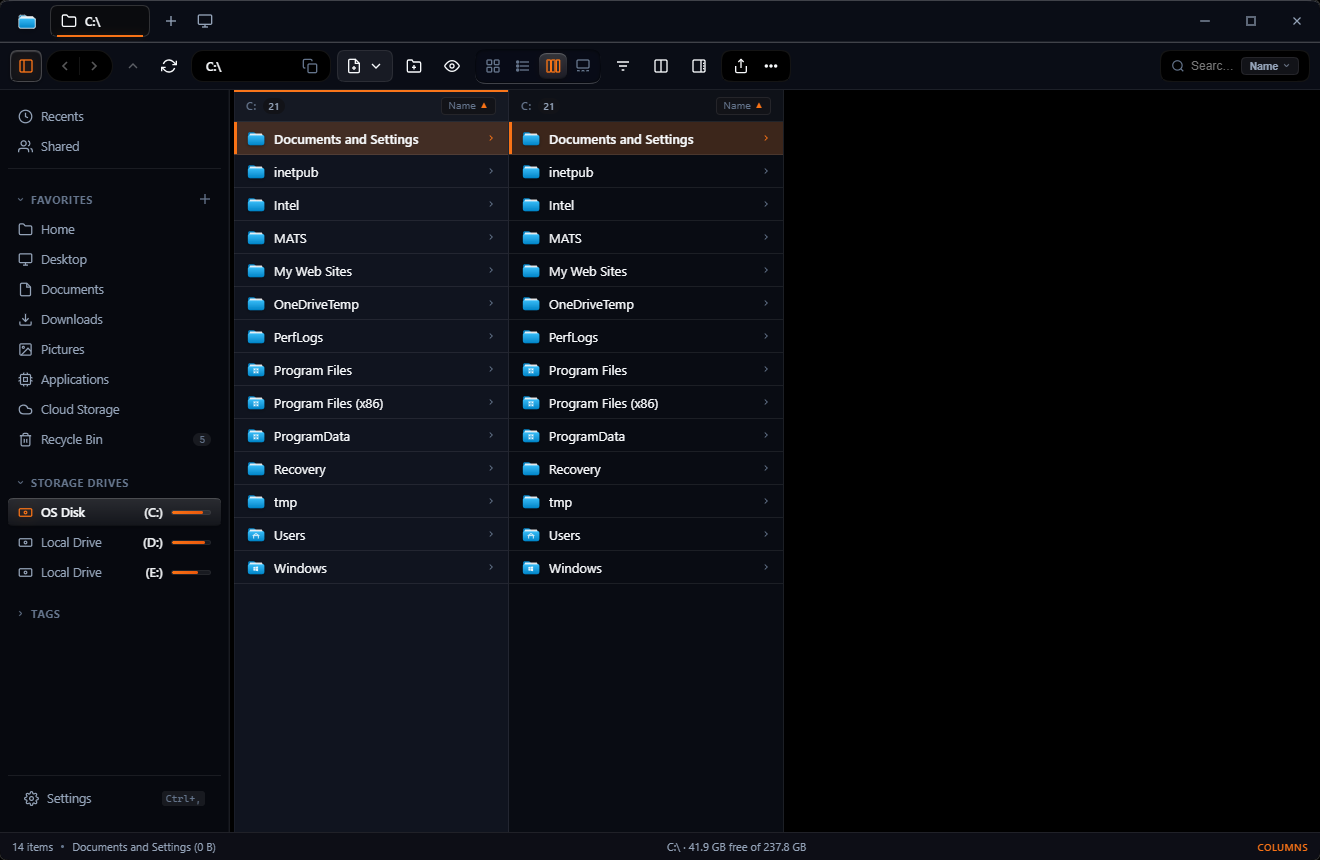
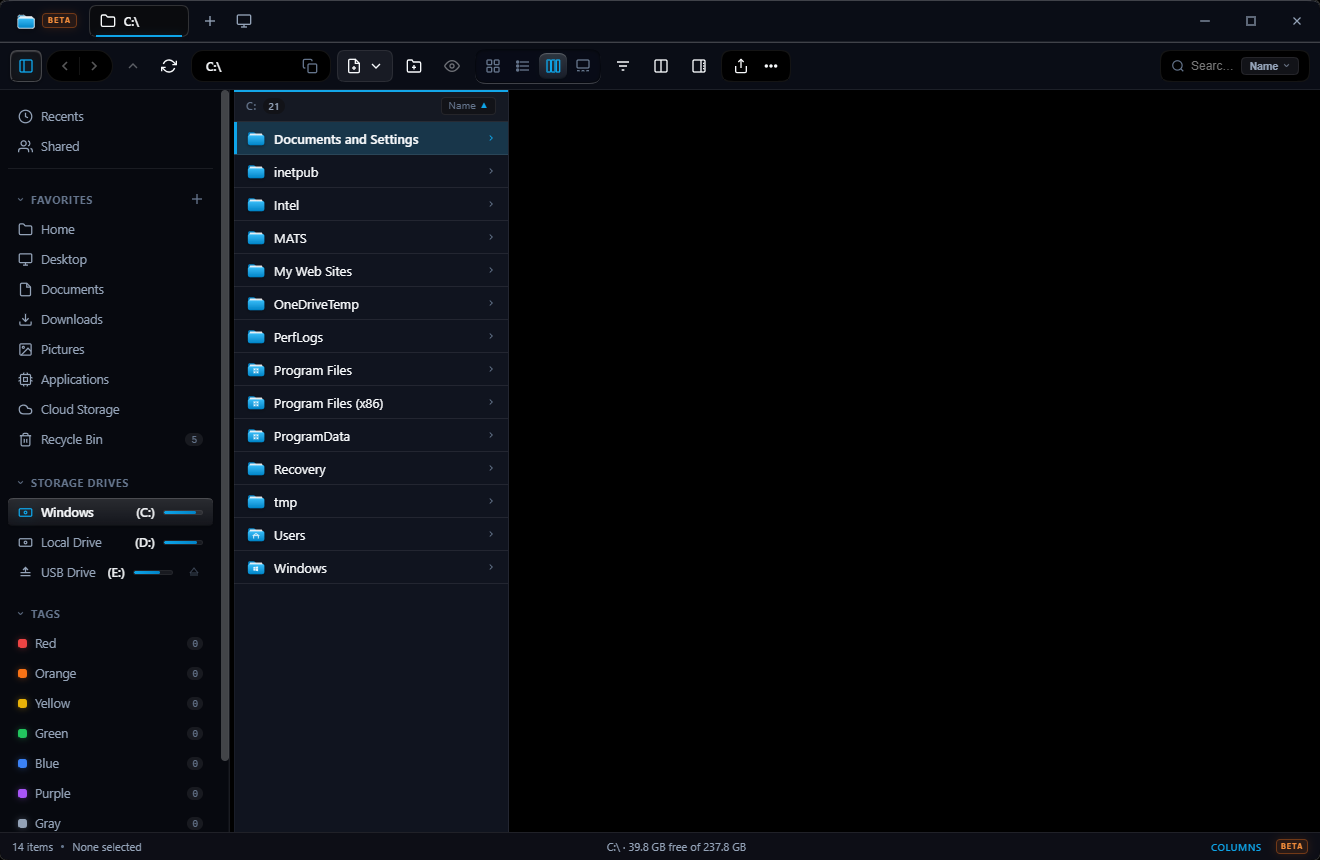
feat: add glowing obsidian BETA badge across titlebar, statusbar, and settings

diff --git a/src/index.html b/src/index.html
@@ -41,6 +41,7 @@
             <!-- Specular Highlight Top Edge -->
             <path d="M 6.8 11.2 L 31.2 11.2" stroke="rgba(255, 255, 255, 0.65)" stroke-width="0.85" stroke-linecap="round"/>
           </svg>
+          <span class="badge-beta">BETA</span>
         </div>
 
         <!-- Tab Strip -->
@@ -673,6 +674,7 @@
           <span class="gear-pill-badge" id="gearPillBadge" title="Current Gear">G2</span>
         </div>
         <span class="status-mode" id="statusViewMode">Columns</span>
+        <span class="badge-beta" title="MyFiles Beta Preview" style="font-size: 8.5px; padding: 1px 4.5px; margin-left: 6px;">BETA</span>
       </div>
     </footer>
 
@@ -1120,7 +1122,10 @@
               <svg class="icon" viewBox="0 0 24 24" fill="none" stroke="currentColor" stroke-width="2" style="width: 18px; height: 18px;"><circle cx="12" cy="12" r="3"/><path d="M19.4 15a1.65 1.65 0 0 0 .33 1.82l.06.06a2 2 0 0 1 0 2.83 2 2 0 0 1-2.83 0l-.06-.06a1.65 1.65 0 0 0-1.82-.33 1.65 1.65 0 0 0-1 1.51V21a2 2 0 0 1-2 2 2 2 0 0 1-2-2v-.09A1.65 1.65 0 0 0 9 19.4a1.65 1.65 0 0 0-1.82.33l-.06.06a2 2 0 0 1-2.83 0 2 2 0 0 1 0-2.83l.06-.06a1.65 1.65 0 0 0 .33-1.82 1.65 1.65 0 0 0-1.51-1H3a2 2 0 0 1-2-2 2 2 0 0 1 2-2h.09A1.65 1.65 0 0 0 4.6 9a1.65 1.65 0 0 0-.33-1.82l-.06-.06a2 2 0 0 1 0-2.83 2 2 0 0 1 2.83 0l.06.06a1.65 1.65 0 0 0 1.82.33H9a1.65 1.65 0 0 0 1-1.51V3a2 2 0 0 1 2-2 2 2 0 0 1 2 2v.09a1.65 1.65 0 0 0 1 1.51 1.65 1.65 0 0 0 1.82-.33l.06-.06a2 2 0 0 1 2.83 0 2 2 0 0 1 0 2.83l-.06.06a1.65 1.65 0 0 0-.33 1.82V9a1.65 1.65 0 0 0 1.51 1H21a2 2 0 0 1 2 2 2 2 0 0 1-2 2h-.09a1.65 1.65 0 0 0-1.51 1z"/></svg>
             </div>
             <div>
-              <div class="settings-header-title">Preferences & Settings</div>
+              <div class="settings-header-title" style="display: flex; align-items: center; gap: 8px;">
+                <span>Preferences & Settings</span>
+                <span class="badge-beta">BETA</span>
+              </div>
               <div class="settings-header-sub">Configure layout, browsing behavior, media preview, and Windows integration</div>
             </div>
           </div>
@@ -2035,7 +2040,7 @@
               <div class="settings-row">
                 <div class="settings-row-text">
                   <div class="settings-row-label">Software Updates</div>
-                  <div class="settings-row-desc" id="settingsUpdateStatusText">Installed version: v1.1.0 · Over-the-air updates via GitHub Releases</div>
+                  <div class="settings-row-desc" id="settingsUpdateStatusText">Installed version: v1.1.1 (Beta Channel) · Over-the-air updates via GitHub Releases</div>
                 </div>
                 <div class="settings-row-ctrl" style="gap: 8px;">
                   <button class="tool-btn" id="btnCheckForUpdates" style="padding: 5px 12px; font-size: 12px; display: inline-flex; align-items: center; gap: 6px;">
@@ -2054,7 +2059,7 @@
         <!-- Footer -->
         <div class="settings-footer">
           <div class="settings-footer-meta">
-            <span>MyFiles Desktop v1.1.0</span>
+            <span>MyFiles Desktop v1.1.1 <span class="badge-beta" style="font-size: 8px; padding: 1px 4.5px; margin-left: 4px;">BETA</span></span>
             <span class="settings-footer-sep">·</span>
             <span>Built by <a href="https://thesoftwareco.pages.dev" target="_blank" rel="noopener noreferrer" class="settings-credit-link" title="Visit The Software Co.">The Software Co.</a></span>
           </div>

diff --git a/src/styles.css b/src/styles.css
@@ -489,9 +489,9 @@ body.is-maximized .statusbar {
   display: flex;
   align-items: center;
   justify-content: center;
-  width: 30px;
+  gap: 6px;
   height: 28px;
-  padding: 0;
+  padding: 0 4px;
   border-radius: var(--radius-sm);
   border-right: none;
   flex-shrink: 0;
@@ -499,6 +499,28 @@ body.is-maximized .statusbar {
   cursor: default;
   -webkit-app-region: no-drag;
   transition: background 0.15s cubic-bezier(0.16, 1, 0.3, 1), transform 0.15s cubic-bezier(0.16, 1, 0.3, 1);
+}
+
+.badge-beta {
+  display: inline-flex;
+  align-items: center;
+  justify-content: center;
+  font-family: 'JetBrains Mono', -apple-system, BlinkMacSystemFont, monospace;
+  font-size: 9px;
+  font-weight: 700;
+  letter-spacing: 0.08em;
+  text-transform: uppercase;
+  color: #fb923c;
+  background: rgba(249, 115, 22, 0.12);
+  border: 1px solid rgba(249, 115, 22, 0.35);
+  padding: 1px 5px;
+  border-radius: 4px;
+  line-height: 1.2;
+  user-select: none;
+  flex-shrink: 0;
+  box-shadow: 0 0 10px rgba(249, 115, 22, 0.15);
+  transition: all 0.2s ease;
+  pointer-events: none;
 }
 
 .app-badge:hover {
